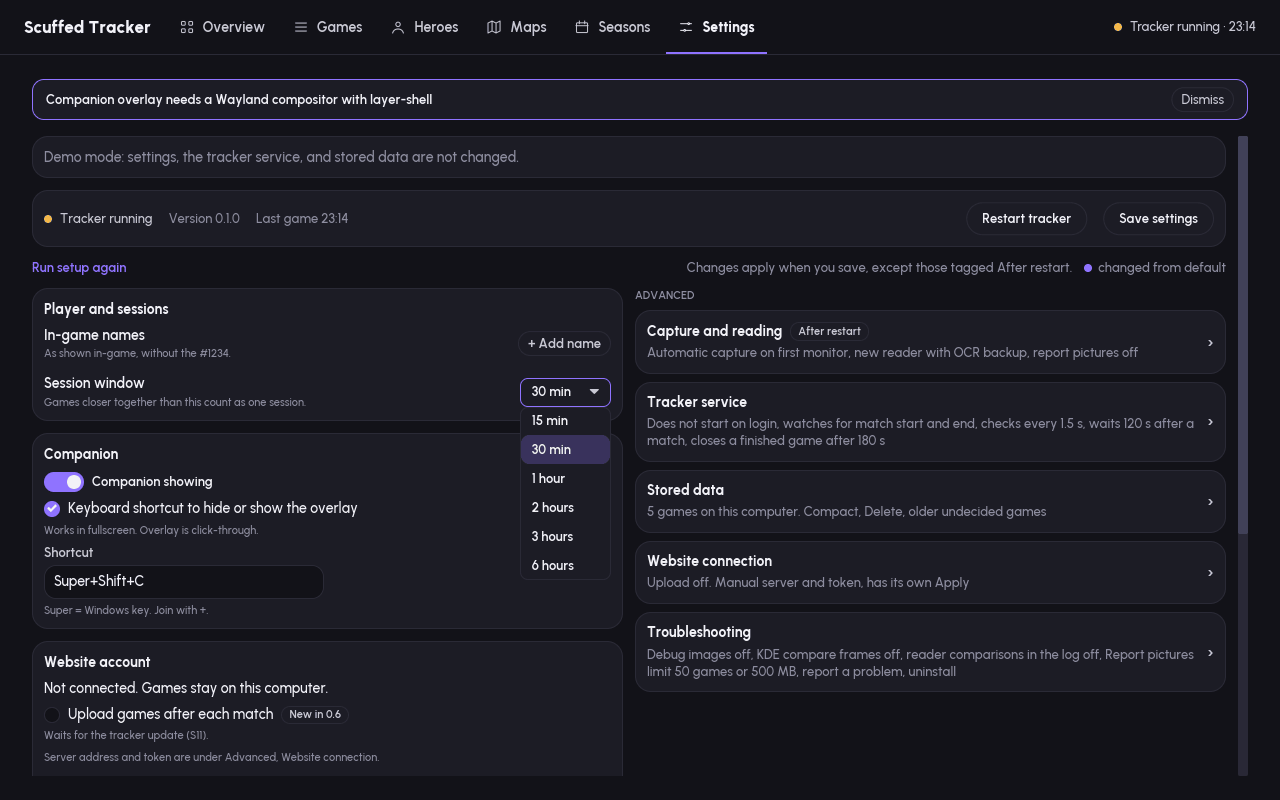
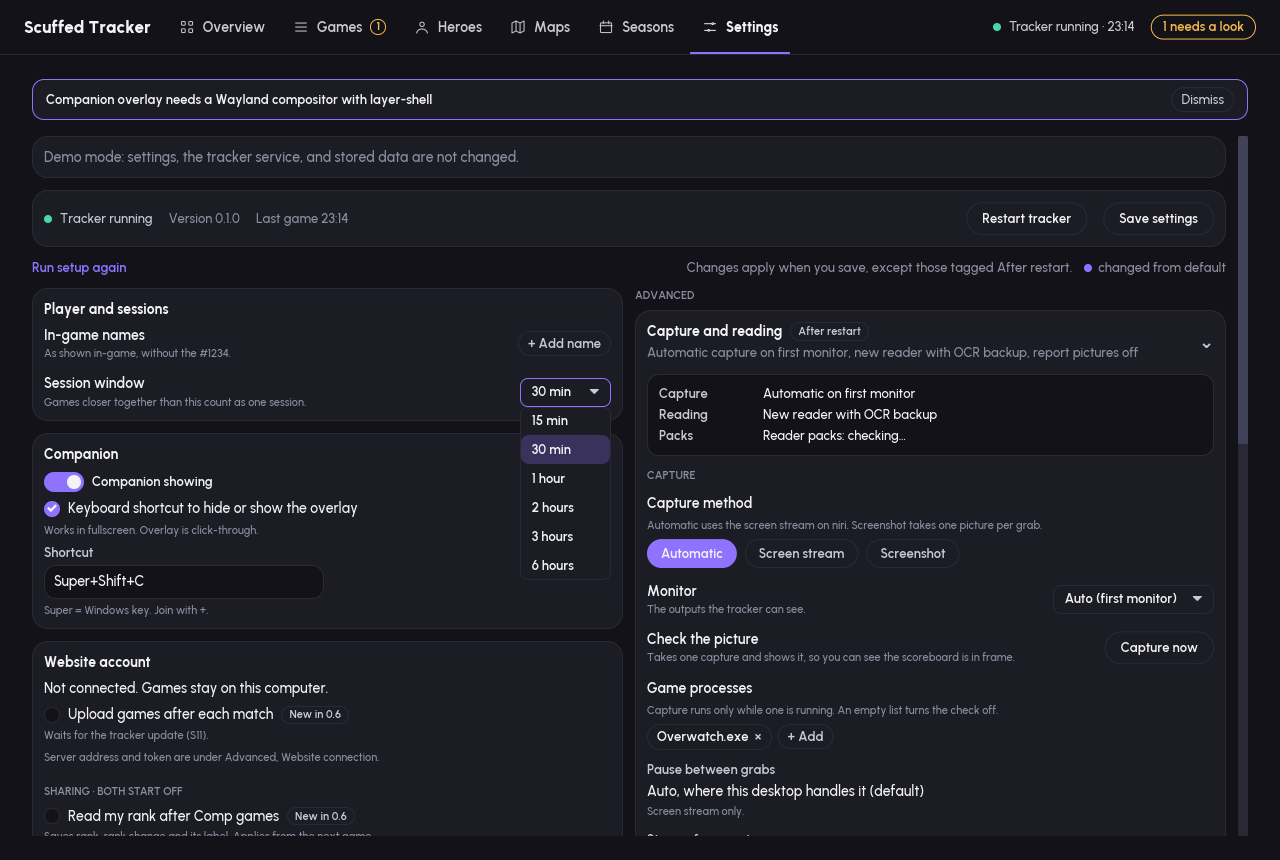
stat-tracker-ui: green running dot, dash sweep, retake shots from one sample
- Header dot: running (Tracker running / Ready) is green, amber only for a
  rejected token, red when stopped. Test updated.
- Replace en/em dashes in UI copy, comments and READMEs with hyphens,
  commas or colons. Season window now reads '24 Jun 2026 - 01 Sep 2026'.
- Retake all redesign shots from the same edited sample (22:51 Ashe game
  with the map blanked), so Overview and Games match. Shot 07 now shows
  Reading model, Name reader, OCR workers and Report pictures.

diff --git a/crates/stat-tracker-ui/src/widgets.rs b/crates/stat-tracker-ui/src/widgets.rs
@@ -251,9 +251,11 @@ pub fn classify_header_status(input: HeaderStatusInput) -> HeaderStatus {
 
 pub fn header_status_color(status: HeaderStatus) -> Color {
     match status {
-        HeaderStatus::Capturing => theme::OK,
-        // Waiting/idle is amber. Token rejection reuses that warning colour.
-        HeaderStatus::Waiting | HeaderStatus::TokenRejected => theme::WARN,
+        // Running is green, whether a game is being read or the tracker is
+        // idle and ready ("Tracker running" / "Ready"). The label says which.
+        HeaderStatus::Capturing | HeaderStatus::Waiting => theme::OK,
+        // Amber is kept for real warnings only.
+        HeaderStatus::TokenRejected => theme::WARN,
         HeaderStatus::Down => theme::DANGER,
     }
 }
@@ -1261,7 +1263,7 @@ fn format_stat(n: u32) -> String {
     }
 }
 
-/// Fill / rest portions for a 0–1 win rate. Portions go on the *containers*
+/// Fill / rest portions for a 0-1 win rate. Portions go on the *containers*
 /// (not Shrink-wrapped `space()` children) or the bar stays ~50/50.
 pub fn win_bar_portions(rate: f32) -> (u16, u16) {
     let fill = (rate.clamp(0.0, 1.0) * 100.0).round() as u16;
@@ -1269,7 +1271,7 @@ pub fn win_bar_portions(rate: f32) -> (u16, u16) {
     (fill, rest)
 }
 
-/// Public so the Seasons screen can reuse the same 4–8 px bar.
+/// Public so the Seasons screen can reuse the same 4-8 px bar.
 pub fn win_bar_for(rate: f32) -> Element<'static, Message> {
     win_bar(rate)
 }
@@ -1403,7 +1405,11 @@ mod tests {
             HeaderStatus::Waiting,
             "demo mode is not a live capture, even though the fixture reports a game"
         );
-        assert_eq!(header_status_color(HeaderStatus::Waiting), theme::WARN);
+        assert_eq!(
+            header_status_color(HeaderStatus::Waiting),
+            theme::OK,
+            "running and idle (\"Tracker running\" / \"Ready\") is green"
+        );
 
         assert_eq!(
             classify_header_status(input(false, false, false, false)),
@@ -1427,8 +1433,13 @@ mod tests {
         );
         assert_ne!(
             header_status_color(HeaderStatus::Waiting),
+            theme::WARN,
+            "amber is only for warnings, not a running tracker"
+        );
+        assert_ne!(
+            header_status_color(HeaderStatus::Down),
             theme::OK,
-            "idle must not stay the old always-mint dot"
+            "a stopped tracker must not look running"
         );
     }
 

diff --git a/crates/stat-tracker-ui/src/layout.rs b/crates/stat-tracker-ui/src/layout.rs
@@ -1,11 +1,11 @@
 //! Responsive column counts from available content width (design rev 3).
 //!
-//! Cards stay at least ~[`MIN_CARD`] wide. Games and maps start at 2–4
-//! columns, heroes at 4–6. On an ultrawide window they add a column once a
+//! Cards stay at least ~[`MIN_CARD`] wide. Games and maps start at 2-4
+//! columns, heroes at 4-6. On an ultrawide window they add a column once a
 //! card would pass [`MAX_CARD`] / [`MAX_HERO_CARD`], so a card does not turn
 //! into a long empty bar. Tonight is one featured card plus as many compact
 //! cards as fit at that minimum. Settings cards stay between
-//! [`MIN_SETTINGS_CARD`] and [`MAX_SETTINGS_CARD`] in 1–4 columns (G4).
+//! [`MIN_SETTINGS_CARD`] and [`MAX_SETTINGS_CARD`] in 1-4 columns (G4).
 
 use crate::theme::{GRID_GAP, PAGE_PAD_X, SIDEBAR_WIDTH};
 

diff --git a/crates/stat-tracker-ui/src/seasons.rs b/crates/stat-tracker-ui/src/seasons.rs
@@ -270,7 +270,7 @@ pub fn apply_fetched_seasons(existing: Vec<Season>, fetched: Vec<Season>) -> Vec
 
 pub fn format_window(starts_at: DateTime<Utc>, ends_at: DateTime<Utc>) -> String {
     format!(
-        "{} – {}",
+        "{} - {}",
         starts_at.format("%d %b %Y"),
         ends_at.format("%d %b %Y")
     )
@@ -707,7 +707,7 @@ mod tests {
     fn format_window_utc_dates() {
         assert_eq!(
             format_window(ts(2026, 6, 24, 0), ts(2026, 9, 1, 0)),
-            "24 Jun 2026 – 01 Sep 2026"
+            "24 Jun 2026 - 01 Sep 2026"
         );
     }
 

diff --git a/crates/stat-tracker-ui/src/games.rs b/crates/stat-tracker-ui/src/games.rs
@@ -44,7 +44,7 @@ pub fn view(app: &TrackerApp, content_width: f32) -> Element<'_, Message> {
     col.into()
 }
 
-/// Compact shelf at `cols` (2–4, more on an ultrawide). An expanded game
+/// Compact shelf at `cols` (2-4, more on an ultrawide). An expanded game
 /// *replaces* its compact card (full-width) instead of duplicating below the row.
 fn sitting_cards<'a>(games: &[Game], app: &'a TrackerApp, cols: usize) -> Element<'a, Message> {
     let cols = cols.max(1);

diff --git a/crates/stat-tracker-ui/src/settings.rs b/crates/stat-tracker-ui/src/settings.rs
@@ -1,6 +1,6 @@
 //! Settings form + screen. Writes today's `Config` fields via `Config::save`.
 //!
-//! Layout: masonry in 1–4 columns by width (Maps density tokens, G4),
+//! Layout: masonry in 1-4 columns by width (Maps density tokens, G4),
 //! Stored data spanning the pane, Save as a full-width footer strip.
 //! `capture_route` chooses the screen stream or the older screenshot portal.
 //! `data_dir`, `ocr_threads`, and `finished_game_close_secs` are preserved

diff --git a/crates/stat-tracker-ui/src/theme.rs b/crates/stat-tracker-ui/src/theme.rs
@@ -92,7 +92,7 @@ pub const ROLE_DAMAGE: Color = Color::from_rgb(
 );
 pub const ROLE_SUPPORT: Color = OK;
 
-/// Card radius, documented product exception (Nirify 16–20 range).
+/// Card radius, documented product exception (Nirify 16-20 range).
 pub const RADIUS_CARD: f32 = 16.0;
 /// Inner blocks / stat boxes.
 pub const RADIUS_INNER: f32 = 12.0;

diff --git a/crates/stat-tracker-ui/README.md b/crates/stat-tracker-ui/README.md
@@ -15,7 +15,7 @@ Native **Iced 0.14** (wgpu) tracker GUI for the Scuffed Crew stat tracker.
 
 Design: `docs/notes/stat-tracker-gui-redesign-2026-09-02.md` rev 2 tokens + rev 3 responsive layout (branch `docs/tracker-gui-redesign`). Tokens: `radius-card` 16, `radius-inner` 12, page pad 24/32, Urbanist, role tints, `border` / `text-3` / `ok` / `danger`.
 
-P0–P5 are on `main` (PRs #56–#61). **v0.4.0** is the first Iced-only tracker
+P0-P5 are on `main` (PRs #56-#61). **v0.4.0** is the first Iced-only tracker
 release (Overview / Games / Heroes / Maps / Seasons / Settings + companion
 overlay; Dioxus GUI removed). Binary name stays `stat-tracker-gui`.
 
@@ -51,7 +51,7 @@ cargo run -p scuffed-stat-tracker-ui -- --data-dir "$HOME/.local/share/scuffed-s
 
 ### Seasons
 
-- **Screen:** sidebar **Seasons** lists each server season (name, UTC window, current marker) plus an **All time** row, each with games / W–L–D / win rate. Selecting a row sets the header season switch. Read-only, no admin CRUD in the desktop app (`/admin/seasons` on the website).
+- **Screen:** sidebar **Seasons** lists each server season (name, UTC window, current marker) plus an **All time** row, each with games / W-L-D / win rate. Selecting a row sets the header season switch. Read-only, no admin CRUD in the desktop app (`/admin/seasons` on the website).
 - **Fetch:** live mode GETs `/api/public/seasons` on launch and every 30 minutes. Written to `<data_dir>/seasons.json`. Offline uses that cache and shows **Last refreshed … · cached** on the Seasons screen.
 - **Selection:** default = the season marked `is_current`, else all time. Persisted in `<data_dir>/ui_state.json`. No seasons → picker hidden (same as the website).
 - **Window:** `starts_at <= played_at < ends_at` (UTC), matching `crates/db/src/queries/personal_stats.rs` (`played_at >= $season_start AND played_at < $season_end`).
@@ -158,7 +158,7 @@ Layer-shell surface (`iced_layershell` 0.19, pinned with Iced 0.14): `Layer::Ove
 
 **Show / hide shortcut:** Settings → **Companion**. Default **Super+Shift+C**, on. The overlay cannot receive keys (`KeyboardInteractivity::None`), so the main GUI process reads `/dev/input` (same evdev path as Tab capture, not X11 `XGrabKey`). Same `input` group / seat `uaccess` as the daemon. Add it with `sudo usermod -aG input "$USER"`, then log out and back in, a new terminal does not pick up the group. The shortcut is an explicit user action: it toggles visibility **now** through the same OverlayHold as the tray button. Hide sticks until the game ends; pressing it again mid-session shows the overlay. The current bind is a one-line footer on the overlay when the shortcut is on. Bind is stored in `<data_dir>/ui_state.json` (`overlay_hotkey`, `overlay_hotkey_enabled`).
 
-Bind format: `Super+Shift+C` (modifiers joined with `+`, then one key). Super aliases: `Meta`, `Win`. Also `Ctrl`, `Alt`, `Shift`. Key: `A`–`Z`, `0`–`9`, `F1`–`F12`, `Tab`, `Space`, `Esc`, `Enter`. At least one modifier is required. Empty field saves as Super+Shift+C.
+Bind format: `Super+Shift+C` (modifiers joined with `+`, then one key). Super aliases: `Meta`, `Win`. Also `Ctrl`, `Alt`, `Shift`. Key: `A` to `Z`, `0` to `9`, `F1` to `F12`, `Tab`, `Space`, `Esc`, `Enter`. At least one modifier is required. Empty field saves as Super+Shift+C.
 
 **Why not the GlobalShortcuts portal?** niri (FrozenTear’s CachyOS / AerynOS) has no xdg-desktop-portal GlobalShortcuts backend. A portal bind would not fire there. This path does not prompt for a portal permission.
 

diff --git a/crates/stat-tracker-ui/artifacts/README.md b/crates/stat-tracker-ui/artifacts/README.md
@@ -1,5 +1,5 @@
 # Overview captures
 
-Checked-in software-renderer PNGs were removed — they disagreed with the real Iced window (zero-height Row cards).
+Checked-in software-renderer PNGs were removed, as they disagreed with the real Iced window (zero-height Row cards).
 
 Evidence is **real window captures** on niri/Wayland. Drop replacements here when FrozenTear has them.
